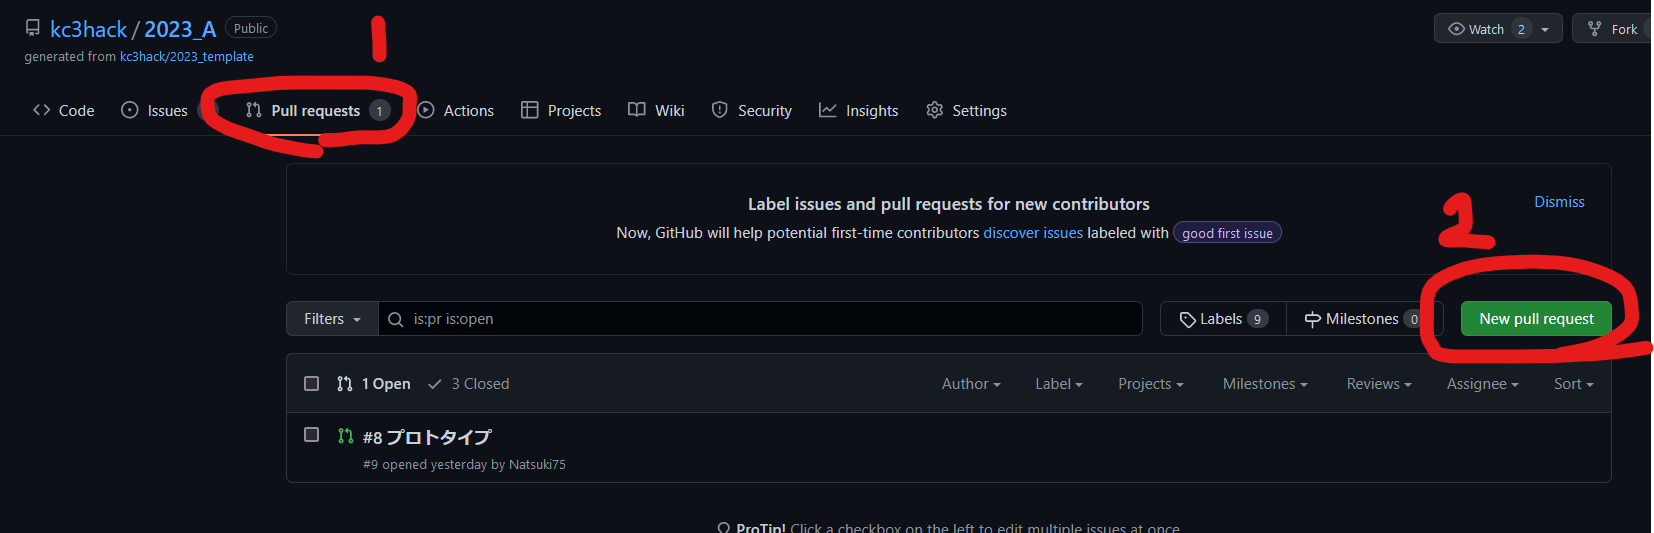
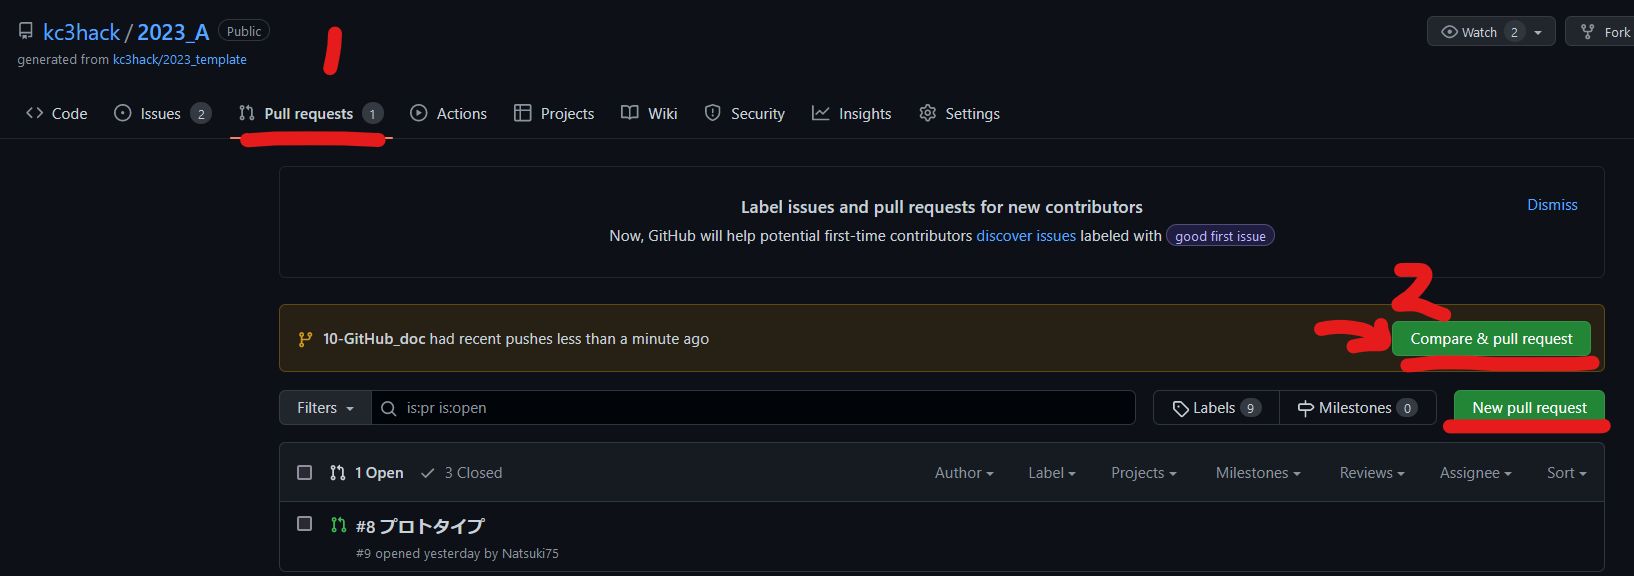
レビューの途中まで作成

diff --git a/doc/GitHubの使い方.md b/doc/GitHubの使い方.md
@@ -87,7 +87,22 @@ git push origin ブランチ名
 
 ### 4. Pull Requestの作成
 ![](images/pull_request1.png)
-GitHubのページに移動したら、上の方にある `Pull requests` をクリック、`New pull request` をクリックします。
+GitHubのページに移動したら、上の方にある `Pull requests` をクリック、`Compare & pull request` をクリックします。
 
-![](images/pull_request2.png)
-`base: main` になっていることを確認し、`compare: ブランチ名` をクリックします。
+<!-- Compare & pull request がない場合  -->
+<details>
+<summary>Compare & pull request がない場合</summary>
+<div>
+ない場合は`New pull request` をクリックします。
+</div>
+<img src="images/pull_request2.png" width="500px">
+<div>
+`compare: main` をクリックし、作成したブランチを選択し、`Create pull request` をクリックするとプルリクエストが作成されます。
+</div>
+</details>
+
+プルリクエストのメッセージを書いて、プルリクエストを作成します。
+![](images/pull_request3.png)
+
+### 5. レビュー
+プルリクエストが作成されたら、レビューをしてもらいます。
